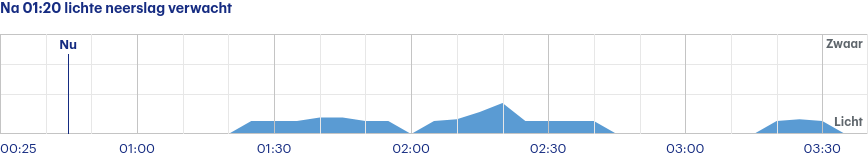
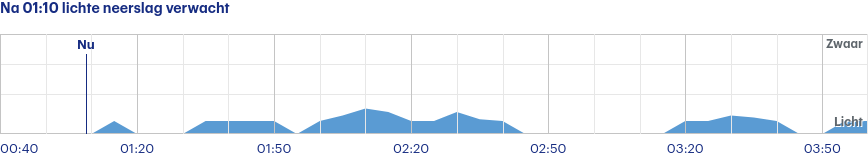
Latest scraping buienradar: Sun Jul 23 23:00:19 UTC 2023

diff --git a/scrapes/buienradar/buienradar-jette-3-uur.md b/scrapes/buienradar/buienradar-jette-3-uur.md
@@ -1,4 +1,4 @@
-Na 01:20 lichte neerslag verwacht
+Na 01:10 lichte neerslag verwacht
 
 ![](buienradar-jette-3-uur.png)
 
